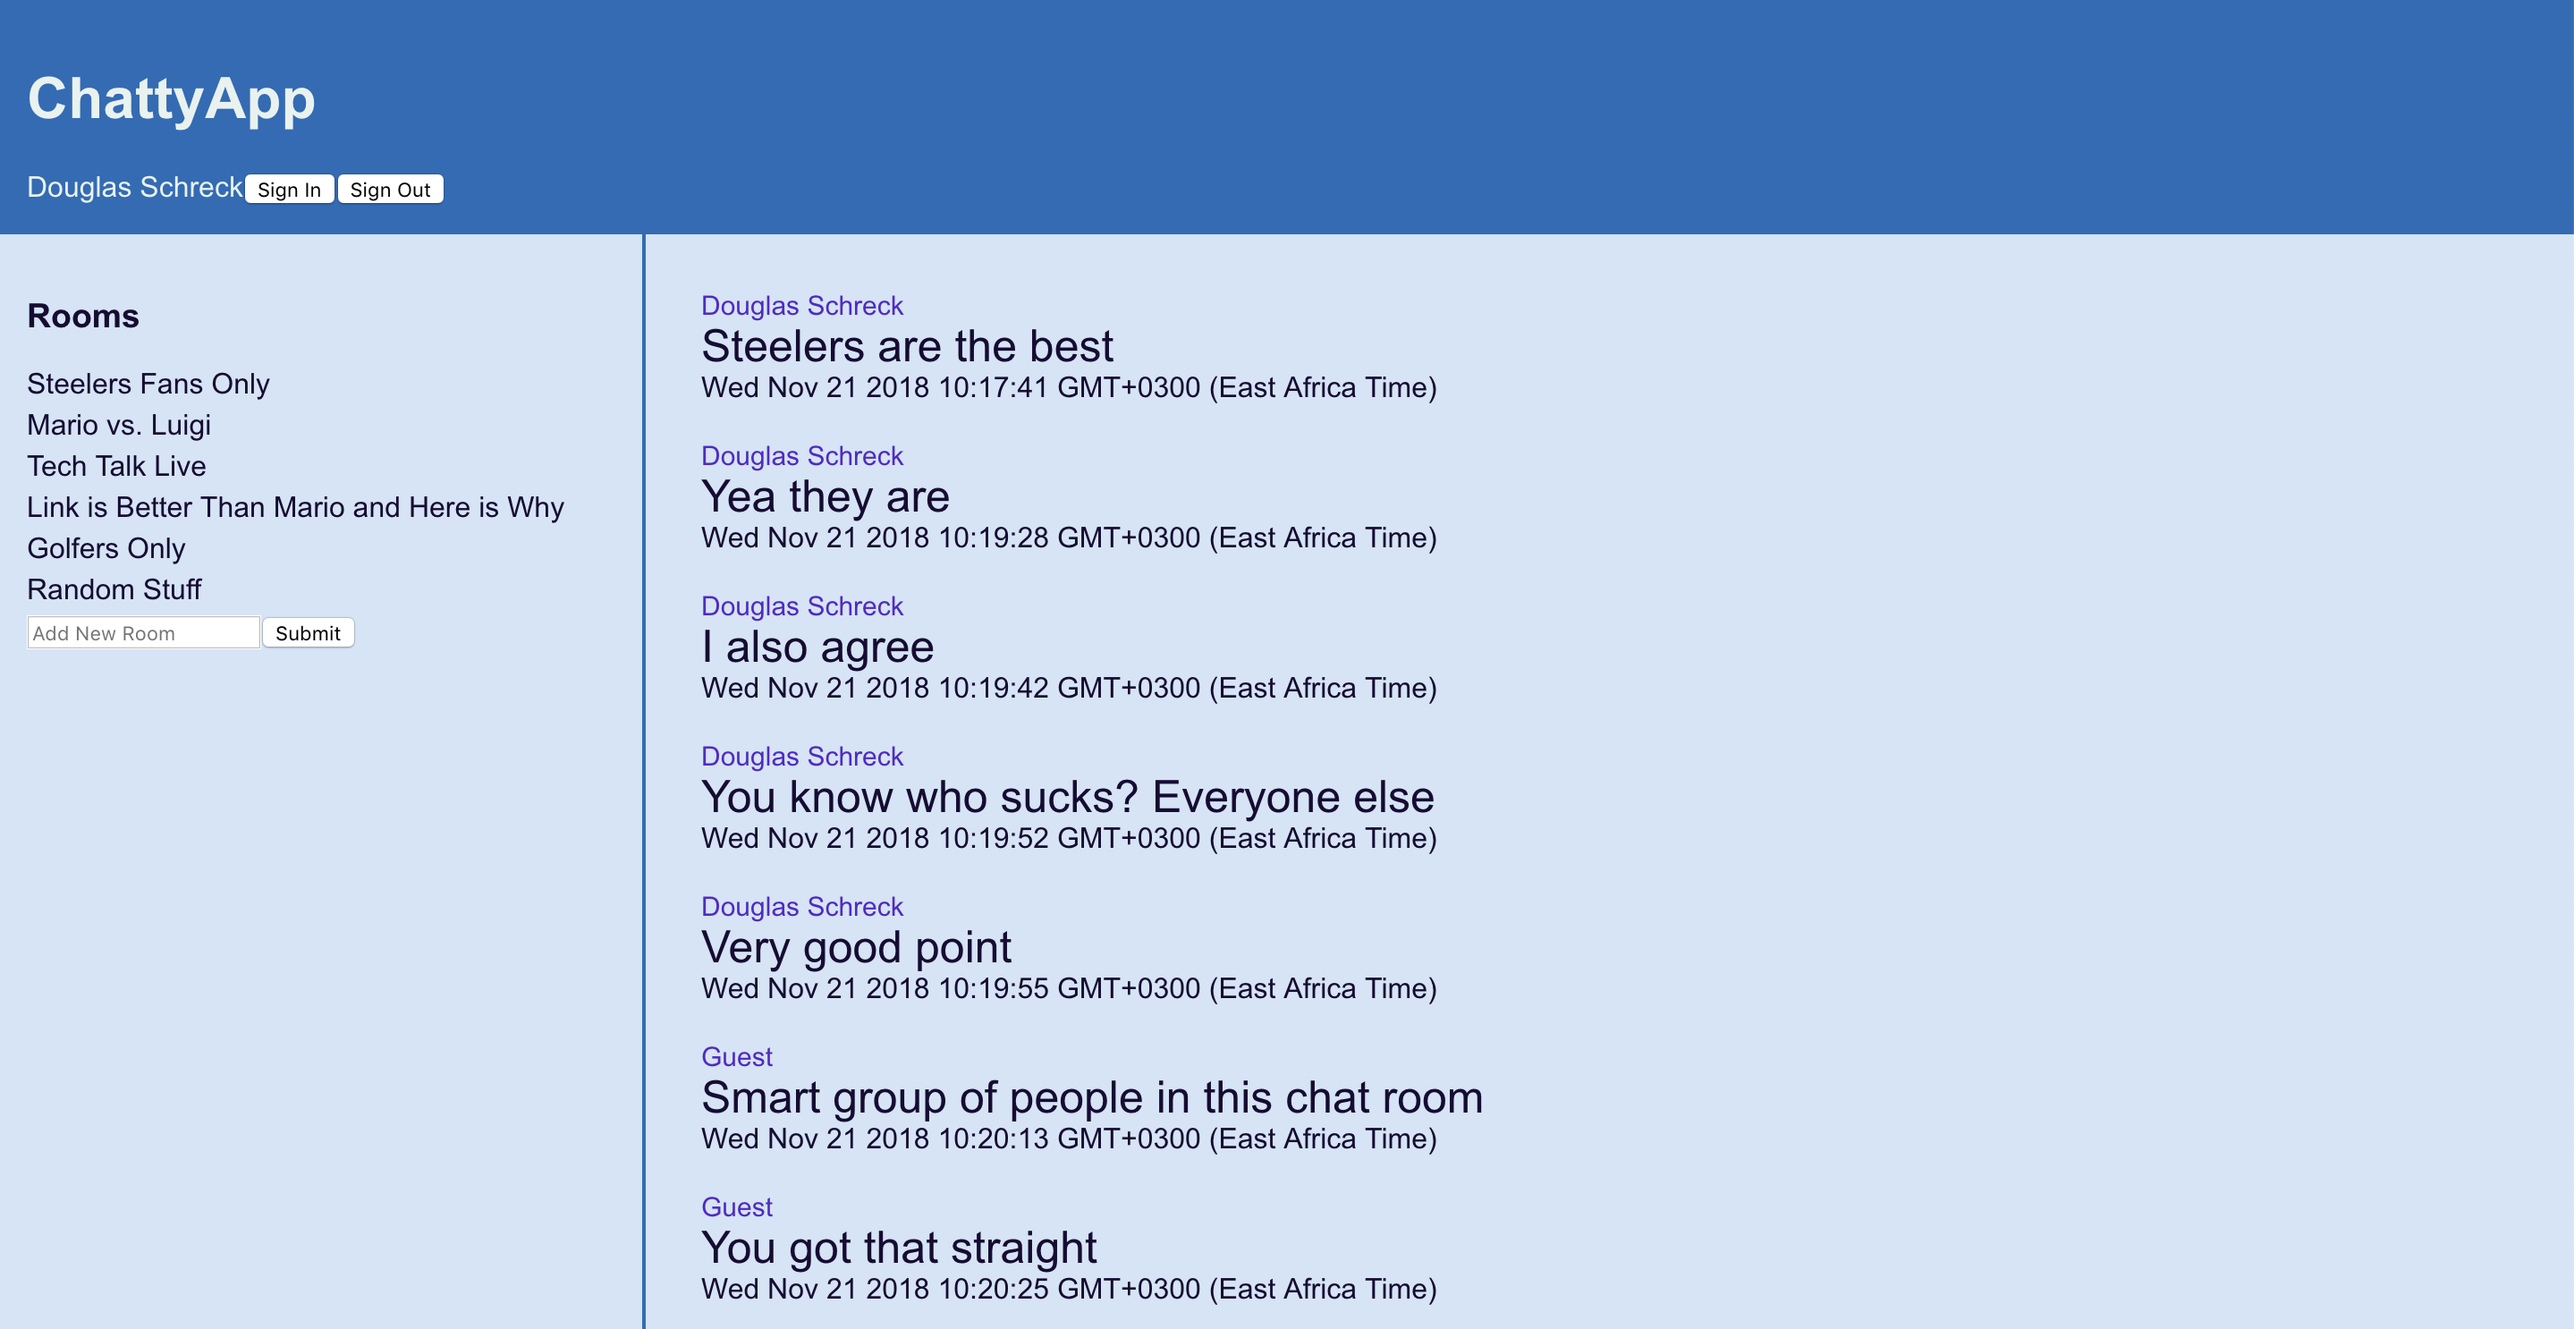
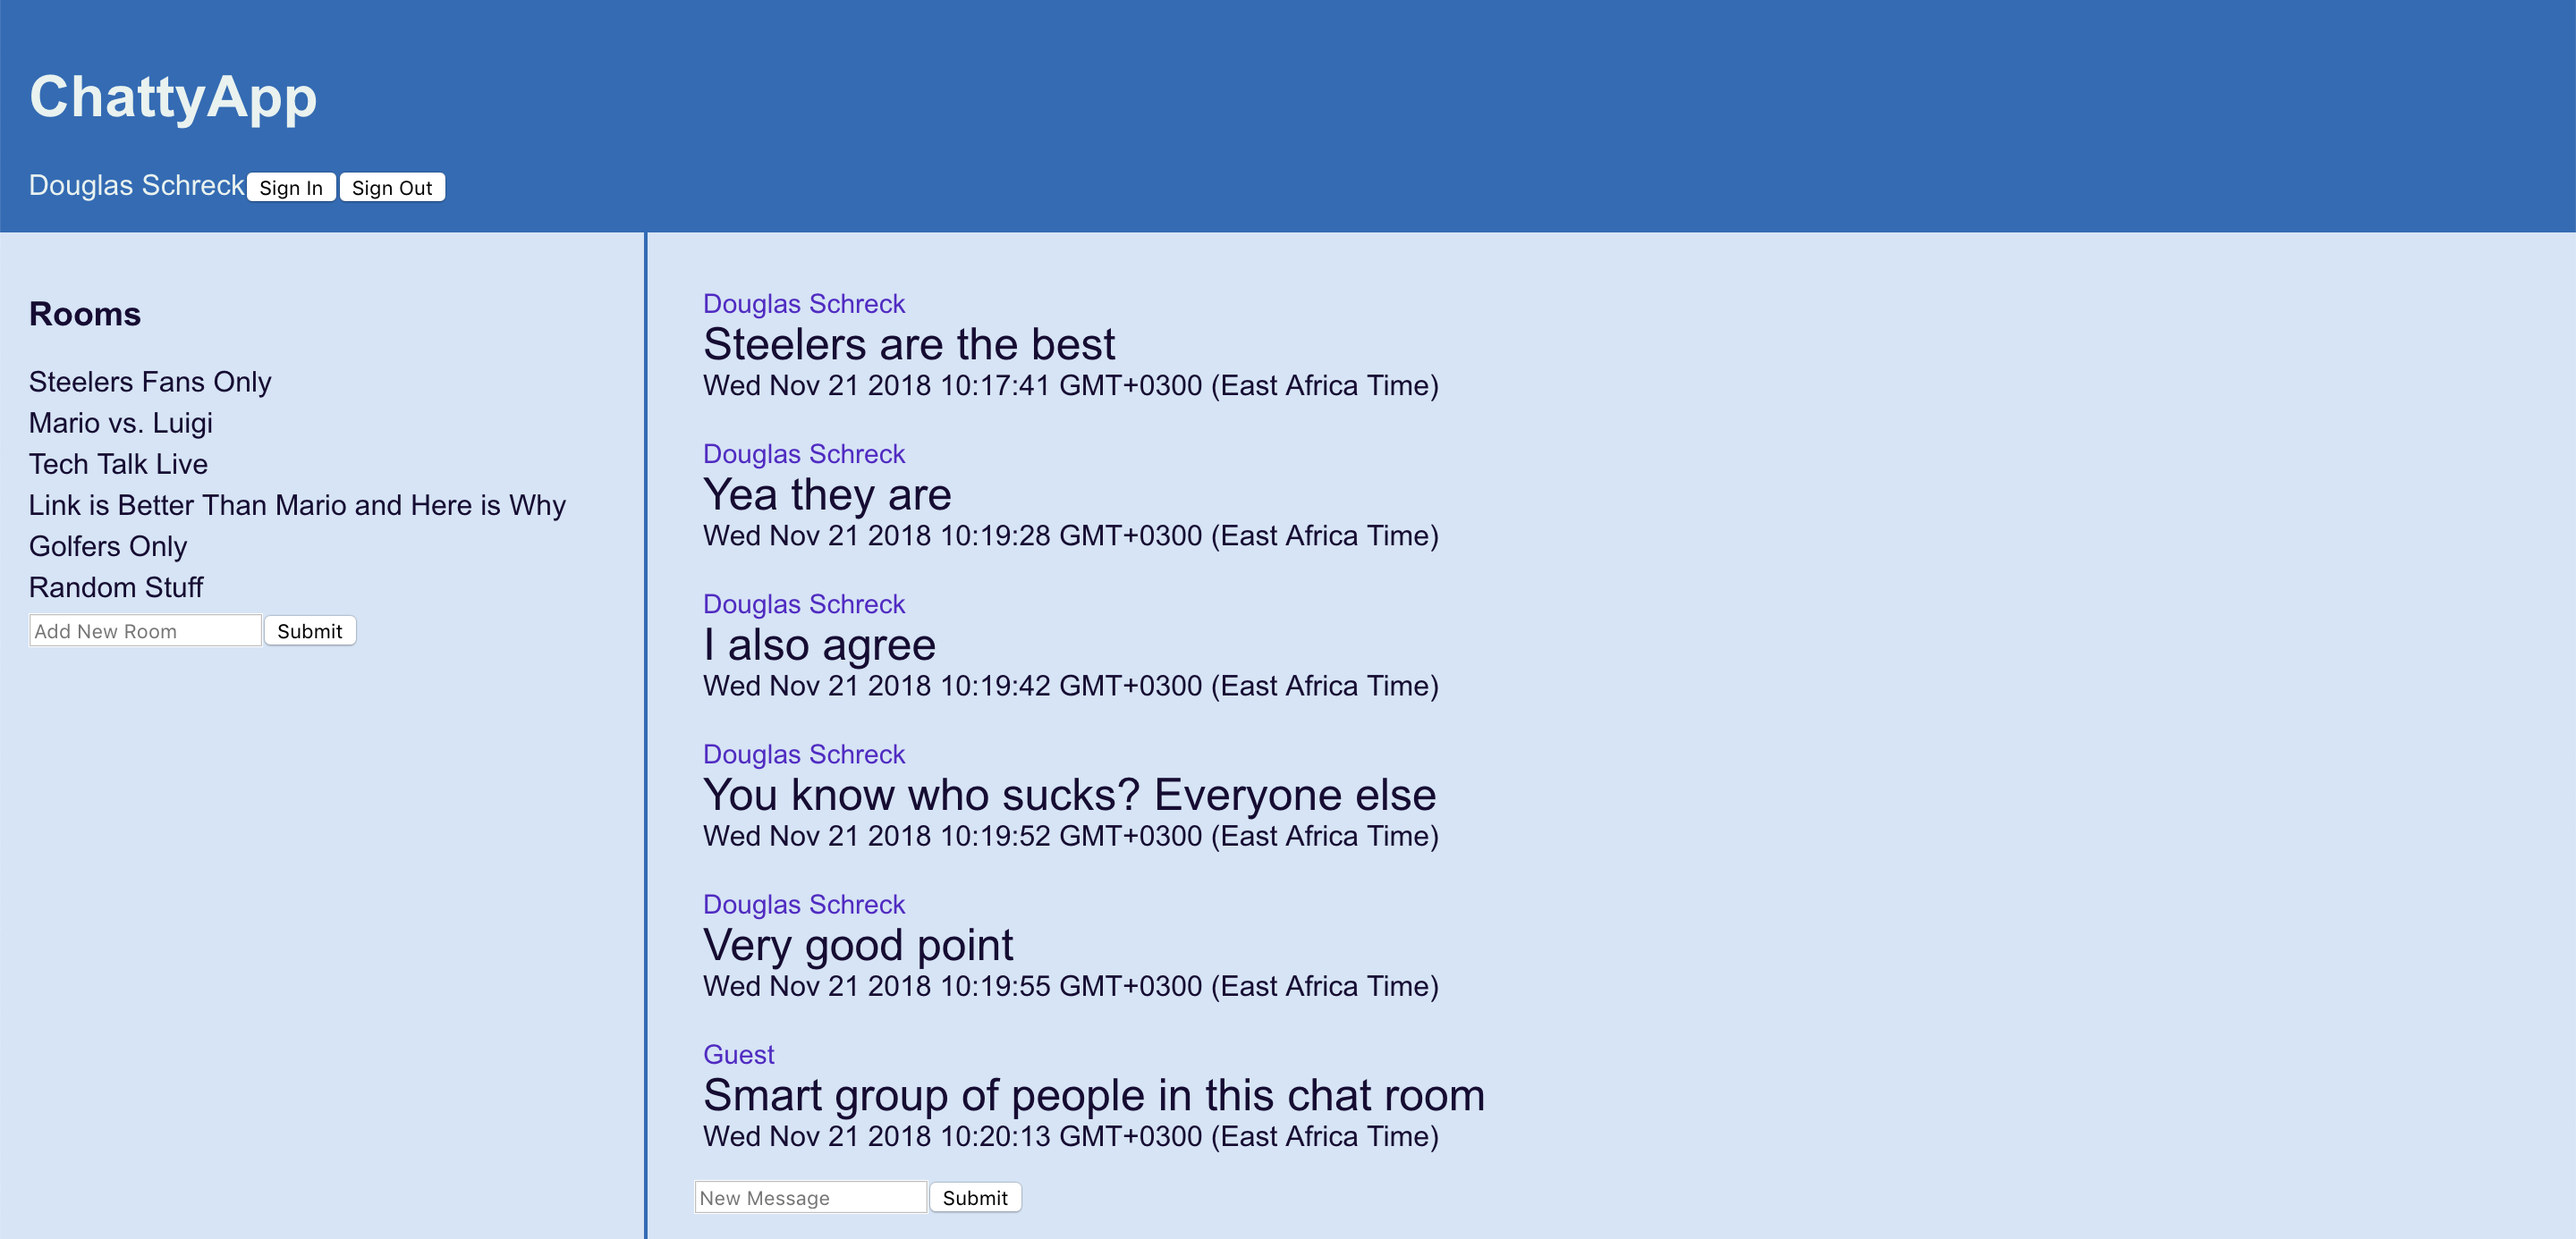
update readme

diff --git a/src/components/MessageList.js b/src/components/MessageList.js
@@ -64,7 +64,7 @@ class MessageList extends Component {
                     </div>
                 )}
                 <form className="newmessage" onSubmit={ (e) => this.createMessage(e) }>
-                    <input type="text" value={ this.state.newMessageContent} onChange={ (e) => this.handleChange(e)} />
+                    <input type="text" placeholder="New Message" value={ this.state.newMessageContent} onChange={ (e) => this.handleChange(e)} />
                     <input type="submit" />
                 </form>
             </div>
